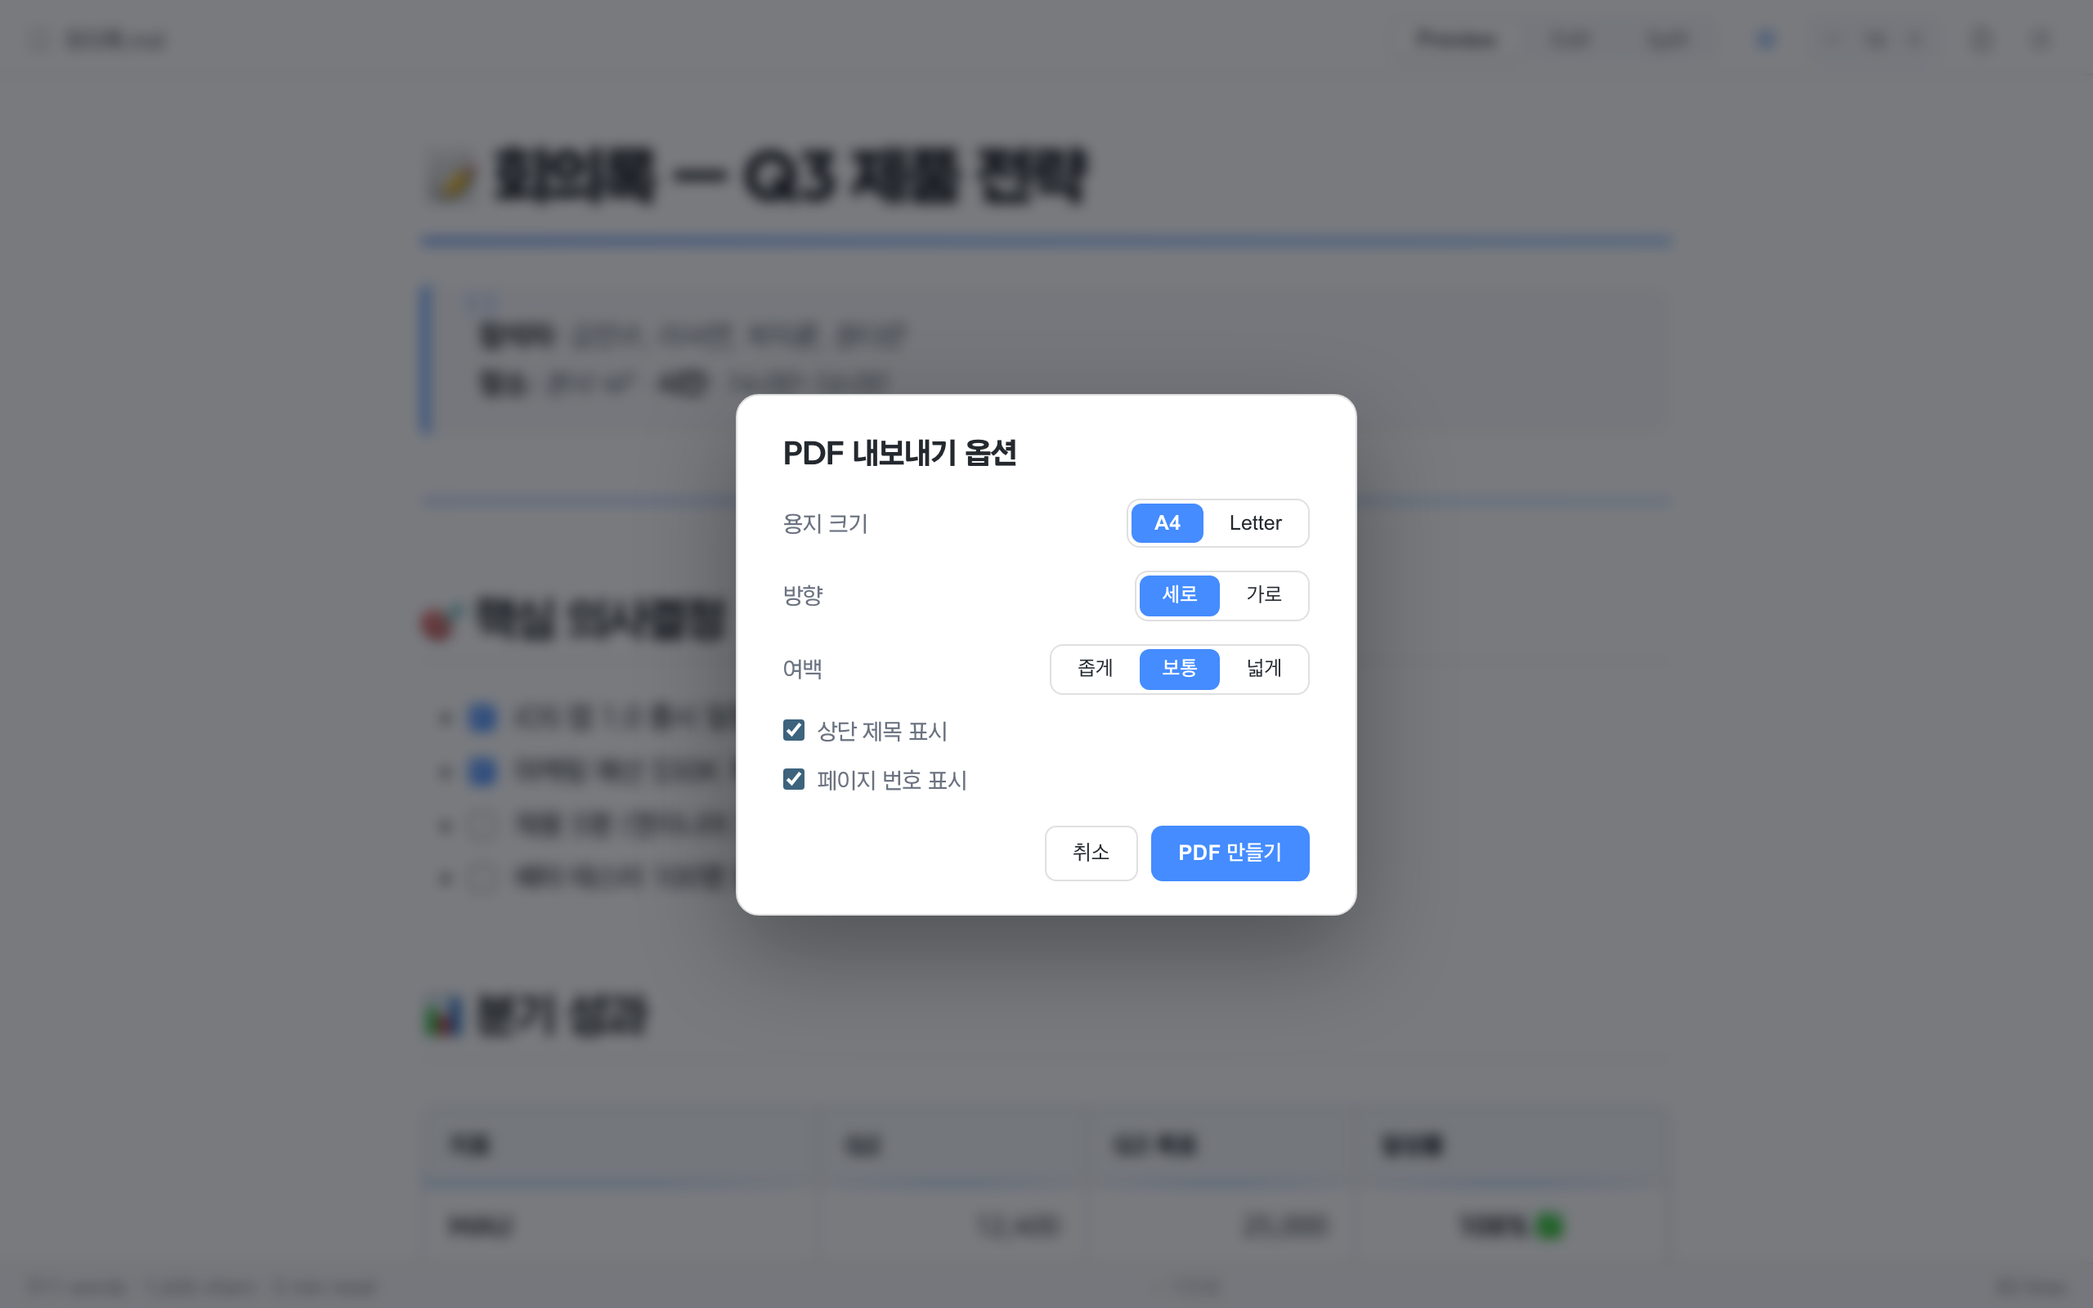
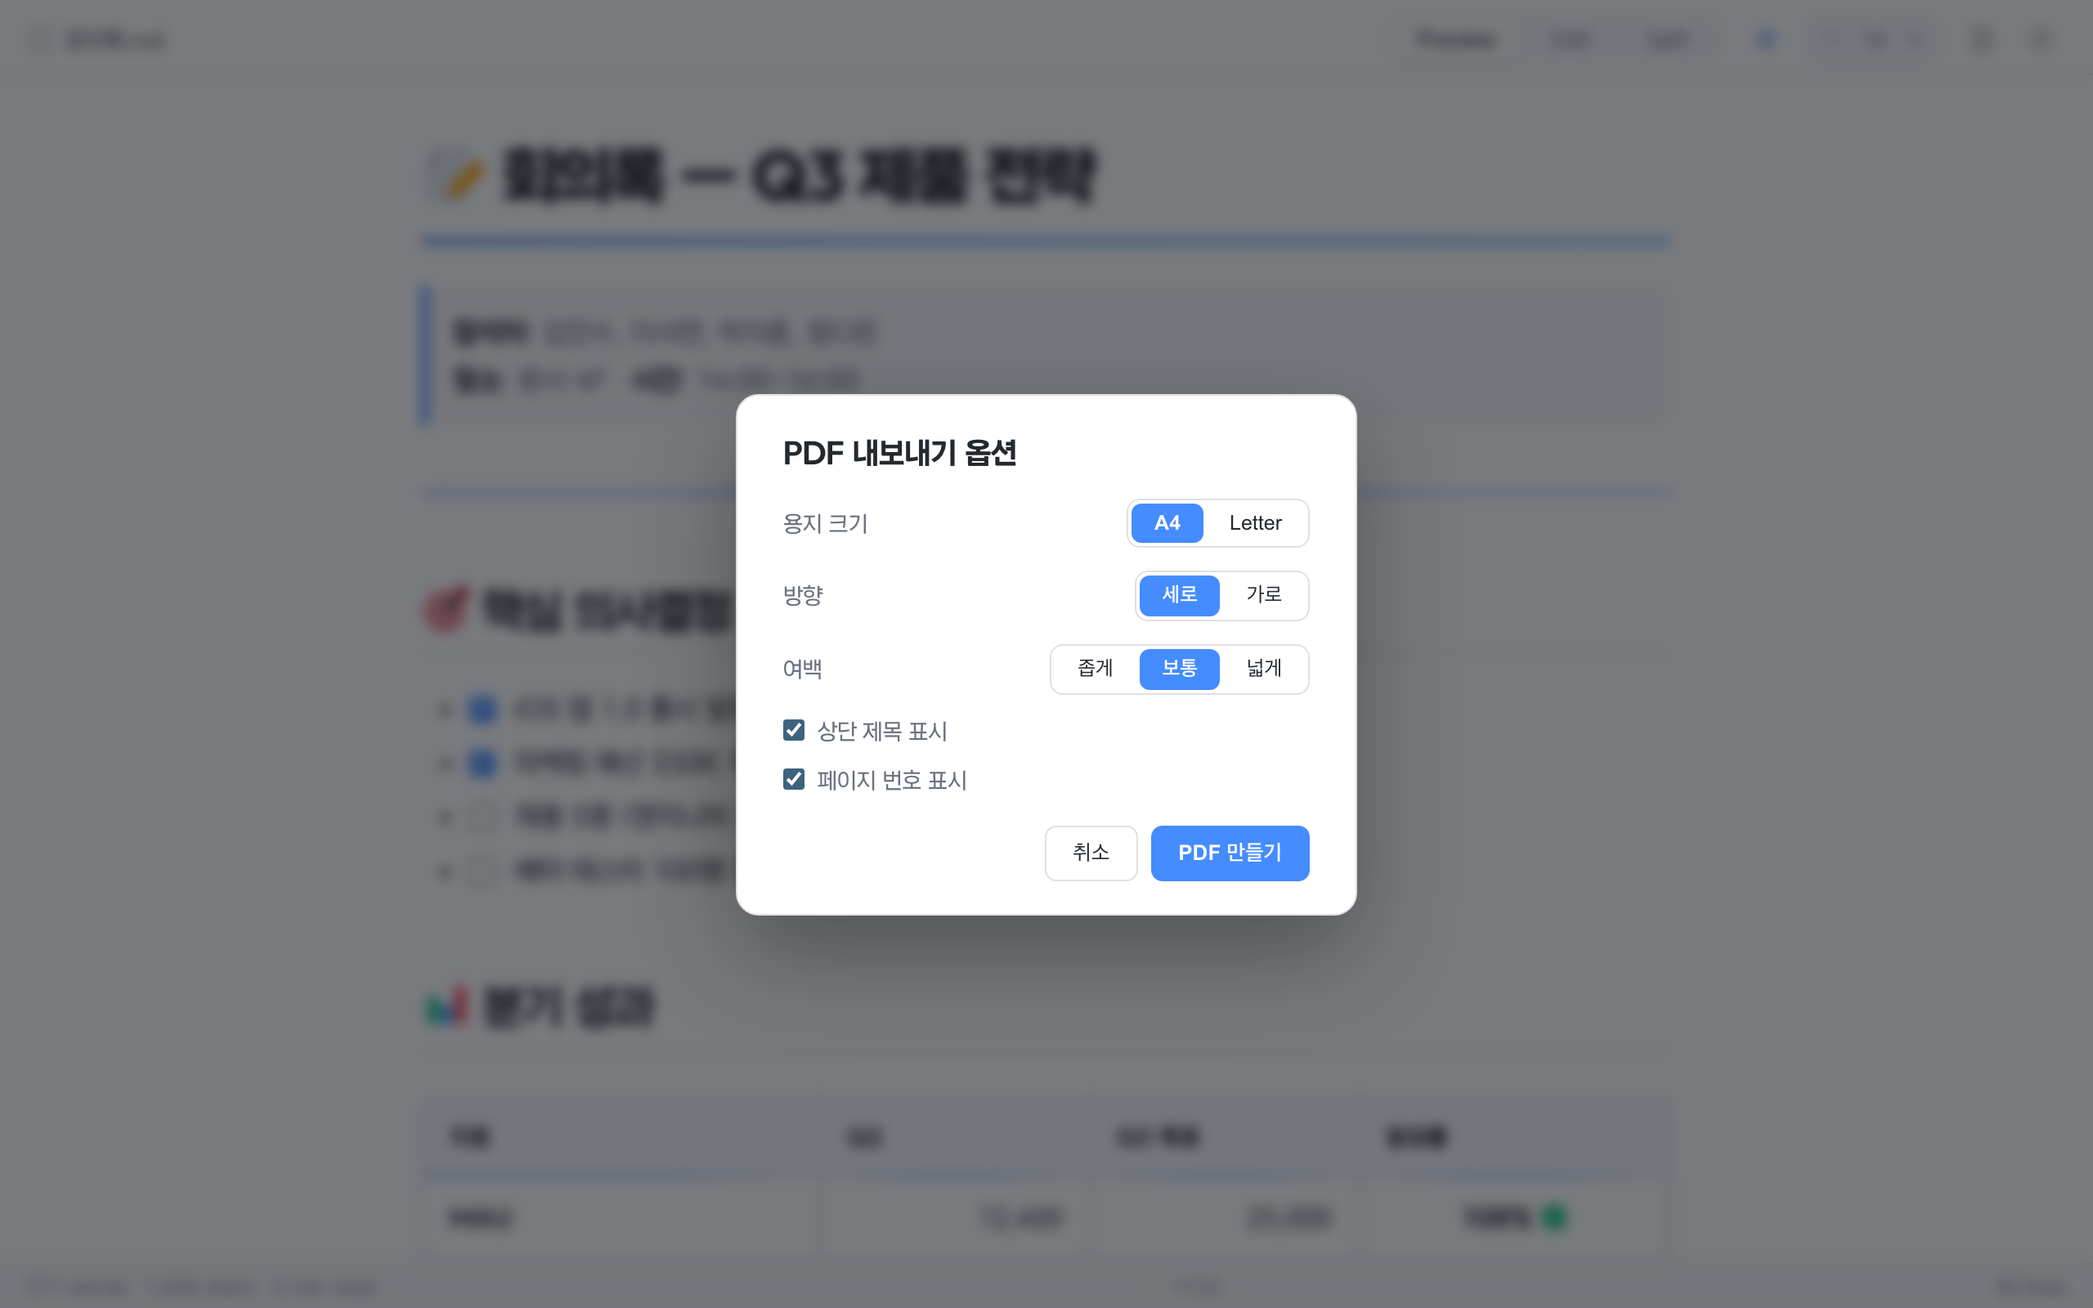
v1.0.6 — In-place block editing in Preview + Marketplace v1.0.5 distribution
Preview mode now lets you double-click any rendered block (heading, paragraph,
list, blockquote, code, table) to edit its raw markdown in place. Cmd/Ctrl+
Enter commits, ESC discards, blur commits. Hover hint "✏ dblclick" appears
top-right of each block in Preview mode so the affordance is discoverable
without cluttering Edit/Split.

Implementation switches the render pipeline from marked.parse() to
marked.lexer() + per-token marked.parser(), wrapping each top-level token in
<div class="md-block" data-block-idx="N">. Editing pulls token.raw, swaps the
block for a <textarea>, and on commit splices the new text back into
currentContent by joining all tokens.raw with the changed one substituted.
Trailing blank lines are preserved separately so block separation stays
intact even after edits that change line count.

Sanitizer now allows data-* attributes — they're scriptless by spec and we
need data-block-idx as the edit anchor. No other behavior change.

Scroll-sync regression fix: .md-block is position:relative so headings'
offsetTop now reads relative to the block, not the preview pane. Added
topWithin(el, root) that sums offsetTop up the offsetParent chain. Restored
to 31/31 green.

.vscodeignore tightened: tests/, SECURITY.md, test-click.md excluded from
the published vsix. Bundle dropped from 15.98 MB to 15.53 MB.

Marketing screenshots regenerated with Tossface emojis so docs/marketing/
and the hero docs/screenshot.png match what users actually see now (the
[…]

diff --git a/media/editor.js b/media/editor.js
@@ -149,6 +149,9 @@ function isAllowedAttribute(tag, name, value) {
     var attr = name.toLowerCase();
     if (attr.indexOf('on') === 0 || attr === 'style' || attr === 'srcdoc') return false;
     if (attr.indexOf('aria-') === 0) return true;
+    // data-* are safe by spec (no script execution surface); needed for our
+    // own block-edit metadata (data-block-idx).
+    if (attr.indexOf('data-') === 0) return true;
     if (attr === 'class' || attr === 'id' || attr === 'title' || attr === 'role') return true;
     if (attr === 'align') return /^(p|div|h[1-6]|td|th)$/.test(tag);
     if ((attr === 'colspan' || attr === 'rowspan') && (tag === 'td' || tag === 'th')) return /^\d+$/.test(value);
@@ -185,9 +188,35 @@ function resolveUri(href) {
     return docBaseUri.replace(/\/+$/, '') + '/' + cleanPath;
 }
 
+/* Token-aware rendering (v1.0.6) — keeps top-level token list around so
+   inline block-edit can find the raw markdown for any rendered block. */
+var _currentTokens = null;
 function renderMarkdown(text) {
-    var html = marked.parse(text);
-    return sanitizeHtml(html);
+    var tokens = marked.lexer(text);
+    _currentTokens = tokens;
+    // Render each top-level token individually and wrap with a div carrying
+    // its index in the token array. Editable blocks: heading/paragraph/
+    // blockquote/list/code/hr/table. Other tokens render as-is without a
+    // wrapper so structural elements (space) don't pollute the DOM.
+    var EDITABLE_TYPES = {
+        heading: 1, paragraph: 1, blockquote: 1, list: 1, code: 1, hr: 1, table: 1, html: 1
+    };
+    var parts = [];
+    for (var i = 0; i < tokens.length; i++) {
+        var token = tokens[i];
+        var blockHtml;
+        try {
+            blockHtml = marked.parser([token]);
+        } catch (_) {
+            blockHtml = '';
+        }
+        if (EDITABLE_TYPES[token.type]) {
+            parts.push('<div class="md-block" data-block-idx="' + i + '" title="Double-click to edit">' + blockHtml + '</div>');
+        } else {
+            parts.push(blockHtml);
+        }
+    }
+    return sanitizeHtml(parts.join(''));
 }
 
 function highlightCodeBlocks(container) {
@@ -310,6 +339,113 @@ function bindImageLightbox(container) {
             openLightbox(img.src, img.alt || '');
         });
     });
+}
+
+/* In-place block editing (v1.0.6) — double-click any rendered block in
+   Preview to edit its raw markdown without leaving the mode. */
+var _activeBlockEdit = null;  // { blockEl, textarea, blockIdx, originalRaw }
+
+function bindBlockEditing(container) {
+    if (!container) return;
+    container.querySelectorAll('.md-block').forEach(function (blockEl) {
+        if (blockEl.dataset.editBound === '1') return;
+        blockEl.dataset.editBound = '1';
+        blockEl.addEventListener('dblclick', function (e) {
+            // Skip when target is a link, image, or interactive child — those
+            // have their own gestures (image lightbox, link navigation).
+            var t = e.target;
+            if (t.tagName === 'A' || t.tagName === 'IMG' || t.tagName === 'INPUT') return;
+            // Skip nested .md-block (rare, but list items can contain blocks)
+            if (t.closest('.md-block') !== blockEl) return;
+            e.preventDefault();
+            e.stopPropagation();
+            openBlockEditor(blockEl);
+        });
+    });
+}
+
+function openBlockEditor(blockEl) {
+    if (_activeBlockEdit) closeBlockEditor(true);  // commit any in-flight edit
+    if (!_currentTokens) return;
+    var blockIdx = parseInt(blockEl.dataset.blockIdx, 10);
+    if (isNaN(blockIdx) || !_currentTokens[blockIdx]) return;
+    var token = _currentTokens[blockIdx];
+    var raw = (token.raw || '').replace(/\n+$/, '');  // trim trailing blank lines for editing
+    var trailingBlanks = (token.raw || '').match(/\n*$/)[0];
+
+    var textarea = document.createElement('textarea');
+    textarea.className = 'md-block-editor';
+    textarea.value = raw;
+    textarea.spellcheck = false;
+    // Match rendered block width
+    var rect = blockEl.getBoundingClientRect();
+    textarea.style.minHeight = Math.max(40, rect.height) + 'px';
+
+    blockEl.classList.add('md-block-editing');
+    blockEl.innerHTML = '';
+    blockEl.appendChild(textarea);
+    autoResizeTextarea(textarea);
+    textarea.focus();
+    // Place cursor at end
+    textarea.selectionStart = textarea.selectionEnd = textarea.value.length;
+
+    _activeBlockEdit = { blockEl: blockEl, textarea: textarea, blockIdx: blockIdx, originalRaw: token.raw, trailingBlanks: trailingBlanks };
+
+    textarea.addEventListener('input', function () { autoResizeTextarea(textarea); });
+    textarea.addEventListener('keydown', function (ev) {
+        if (ev.key === 'Escape') {
+            ev.preventDefault();
+            closeBlockEditor(false);  // discard
+        } else if ((ev.key === 'Enter' && (ev.metaKey || ev.ctrlKey))) {
+            ev.preventDefault();
+            closeBlockEditor(true);   // commit
+        }
+    });
+    textarea.addEventListener('blur', function () {
+        // Slight delay so click on adjacent block doesn't double-trigger
+        setTimeout(function () { if (_activeBlockEdit && _activeBlockEdit.textarea === textarea) closeBlockEditor(true); }, 0);
+    });
+}
+
+function autoResizeTextarea(ta) {
+    ta.style.height = 'auto';
+    ta.style.height = Math.max(40, ta.scrollHeight + 2) + 'px';
+}
+
+function closeBlockEditor(commit) {
+    if (!_activeBlockEdit) return;
+    var ed = _activeBlockEdit;
+    _activeBlockEdit = null;
+    if (!commit) {
+        // Discard: re-render whole preview, which restores the original block
+        renderPreview();
+        return;
+    }
+    var newRaw = ed.textarea.value;
+    var oldRaw = ed.originalRaw || '';
+    if (newRaw === oldRaw.replace(/\n+$/, '')) {
+        // No change — just re-render to drop the textarea
+        renderPreview();
+        return;
+    }
+    // Splice the new raw into the source. We rebuild currentContent from the
+    // token array by joining each token's raw, swapping our block out.
+    if (!_currentTokens || !_currentTokens[ed.blockIdx]) {
+        renderPreview();
+        return;
+    }
+    // Preserve the original trailing whitespace so block separation stays intact
+    var newRawWithTrailing = newRaw + (ed.trailingBlanks || '\n\n');
+    var parts = [];
+    for (var i = 0; i < _currentTokens.length; i++) {
+        parts.push(i === ed.blockIdx ? newRawWithTrailing : (_currentTokens[i].raw || ''));
+    }
+    var updated = parts.join('');
+    currentContent = updated;
+    if (editorEl) editorEl.value = updated;
+    saveToDocument(updated);
+    updateStats();
+    renderPreview();
 }
 
 /* Wrap wide tables in horizontal scroll container (v1.0.2) */
@@ -489,7 +625,7 @@ function setupOutlineScrollSpy() {
             // Find last heading whose top is above current scroll position
             var scrollTop = previewEl.parentElement ? previewEl.parentElement.scrollTop : window.scrollY;
             for (var i = pairs.length - 1; i >= 0; i--) {
-                if (pairs[i].heading.offsetTop <= scrollTop + 20) { topMost = pairs[i].heading; break; }
+                if (topWithin(pairs[i].heading, previewEl) <= scrollTop + 20) { topMost = pairs[i].heading; break; }
             }
         }
         if (!topMost) return;
@@ -546,6 +682,7 @@ function renderPreview() {
         makeCheckboxesClickable();
         wrapTablesScrollable(previewEl);
         bindImageLightbox(previewEl);
+        bindBlockEditing(previewEl);
         renderMath(previewEl);
         renderMermaid(previewEl);
         // Rebuild scroll-sync anchors after each render so heading offsets stay accurate
@@ -1320,6 +1457,19 @@ function saveToDocument(content) {
 /* ───────────────────────────────────────────
    Scroll synchronization (Split mode)
    ─────────────────────────────────────────── */
+/* True top of `el` relative to `root` — sums offsetTop up the offsetParent
+ * chain. Needed when intermediate wrappers (e.g. .md-block, position:relative)
+ * reset the offsetParent so el.offsetTop alone isn't relative to previewEl. */
+function topWithin(el, root) {
+    var top = 0;
+    var cur = el;
+    while (cur && cur !== root) {
+        top += cur.offsetTop || 0;
+        cur = cur.offsetParent;
+    }
+    return top;
+}
+
 /*
  * Anchor-based scroll sync (v1.0.2)
  *
@@ -1420,18 +1570,18 @@ function syncEditorToPreview() {
     if (prev && next) {
         var srcSpan = next.sourceLine - prev.sourceLine || 1;
         var ratio = (line - prev.sourceLine) / srcSpan;
-        var prevTop = prev.headingEl.offsetTop;
-        var nextTop = next.headingEl.offsetTop;
+        var prevTop = topWithin(prev.headingEl, previewEl);
+        var nextTop = topWithin(next.headingEl, previewEl);
         targetTop = prevTop + (nextTop - prevTop) * ratio;
     } else if (prev) {
         // Past last heading — interpolate using remaining source lines vs preview height
         var remainSrc = Math.max(1, _scrollAnchors.lineCount - prev.sourceLine);
         var ratio2 = (line - prev.sourceLine) / remainSrc;
-        var remainPv = previewEl.scrollHeight - prev.headingEl.offsetTop;
-        targetTop = prev.headingEl.offsetTop + remainPv * ratio2;
+        var remainPv = previewEl.scrollHeight - topWithin(prev.headingEl, previewEl);
+        targetTop = topWithin(prev.headingEl, previewEl) + remainPv * ratio2;
     } else if (next) {
         var ratio3 = line / Math.max(1, next.sourceLine);
-        targetTop = next.headingEl.offsetTop * ratio3;
+        targetTop = topWithin(next.headingEl, previewEl) * ratio3;
     } else {
         return false;
     }
@@ -1449,22 +1599,22 @@ function syncPreviewToEditor() {
     var scrollTop = container.scrollTop + container.clientHeight * 0.15;
     var prev = null, next = null;
     for (var i = 0; i < anchors.length; i++) {
-        if (anchors[i].headingEl.offsetTop <= scrollTop) prev = anchors[i];
+        if (topWithin(anchors[i].headingEl, previewEl) <= scrollTop) prev = anchors[i];
         else { next = anchors[i]; break; }
     }
     var lh = parseFloat(getComputedStyle(editorEl).lineHeight) || 22;
     var targetLine;
     if (prev && next) {
-        var pvSpan = next.headingEl.offsetTop - prev.headingEl.offsetTop || 1;
-        var ratio = (scrollTop - prev.headingEl.offsetTop) / pvSpan;
+        var pvSpan = topWithin(next.headingEl, previewEl) - topWithin(prev.headingEl, previewEl) || 1;
+        var ratio = (scrollTop - topWithin(prev.headingEl, previewEl)) / pvSpan;
         targetLine = prev.sourceLine + (next.sourceLine - prev.sourceLine) * ratio;
     } else if (prev) {
-        var remainPv = Math.max(1, previewEl.scrollHeight - prev.headingEl.offsetTop);
-        var ratio2 = (scrollTop - prev.headingEl.offsetTop) / remainPv;
+        var remainPv = Math.max(1, previewEl.scrollHeight - topWithin(prev.headingEl, previewEl));
+        var ratio2 = (scrollTop - topWithin(prev.headingEl, previewEl)) / remainPv;
         var remainSrc = _scrollAnchors.lineCount - prev.sourceLine;
         targetLine = prev.sourceLine + remainSrc * ratio2;
     } else if (next) {
-        targetLine = next.sourceLine * (scrollTop / Math.max(1, next.headingEl.offsetTop));
+        targetLine = next.sourceLine * (scrollTop / Math.max(1, topWithin(next.headingEl, previewEl)));
     } else {
         return false;
     }

diff --git a/media/editor.css b/media/editor.css
@@ -2805,3 +2805,71 @@ body.vscode-dark .pdf-options-dialog .pdf-segmented {
    @import + font-family chain on body). Browser auto-selects Tossface for
    emoji codepoints via its unicode-range and falls through for everything
    else. No JS parsing or SVG replacement needed. */
+
+/* ══════════════════════════════════════════════════════════════
+   IN-PLACE BLOCK EDITING (v1.0.6)
+   ══════════════════════════════════════════════════════════════ */
+.markdown-body .md-block {
+    position: relative;
+    transition: background 0.12s ease;
+    border-radius: 4px;
+    margin: 0;
+    padding: 0;
+}
+/* Subtle hover hint that double-click opens editor */
+body.mode-preview .markdown-body .md-block:hover {
+    background: color-mix(in srgb, var(--md-accent) 4%, transparent);
+    cursor: text;
+}
+body.mode-preview .markdown-body .md-block:hover::after {
+    content: '✏ dblclick';
+    position: absolute;
+    top: 6px;
+    right: 8px;
+    font-size: 10.5px;
+    color: var(--md-text-muted, #8b8b9a);
+    opacity: 0.55;
+    pointer-events: none;
+    font-family: 'AtoZ', 'Pretendard', sans-serif;
+    background: var(--md-bg);
+    padding: 1px 6px;
+    border-radius: 4px;
+    line-height: 1.4;
+    border: 1px solid var(--md-border, #e5e7eb);
+}
+
+/* Active editor — textarea swapped in place of rendered HTML */
+.markdown-body .md-block-editing {
+    background: color-mix(in srgb, var(--md-accent) 7%, transparent);
+    box-shadow: 0 0 0 1px var(--md-accent), inset 0 0 0 1px var(--md-bg);
+    padding: 4px 6px;
+    cursor: text;
+}
+.markdown-body .md-block-editing::after { display: none; }
+.markdown-body .md-block-editor {
+    width: 100%;
+    background: transparent;
+    border: none;
+    outline: none;
+    resize: none;
+    font-family: 'JetBrains Mono', 'Fira Code', 'Cascadia Code', 'SF Mono', Consolas, monospace;
+    font-size: 0.92em;
+    line-height: 1.55;
+    color: var(--md-text);
+    padding: 4px 2px;
+    overflow: hidden;
+    tab-size: 4;
+    -moz-tab-size: 4;
+    caret-color: var(--md-accent);
+}
+
+/* Edit/Split mode: no editing hints in preview side (only Preview-only mode) */
+body.mode-edit .markdown-body .md-block:hover::after,
+body.mode-split .markdown-body .md-block:hover::after { display: none; }
+body.mode-edit .markdown-body .md-block:hover,
+body.mode-split .markdown-body .md-block:hover { background: transparent; cursor: default; }
+
+/* PDF export: strip all editing affordances */
+body.exporting-pdf .markdown-body .md-block { background: transparent !important; padding: 0 !important; }
+body.exporting-pdf .markdown-body .md-block::after,
+body.exporting-pdf .markdown-body .md-block:hover::after { display: none !important; }

diff --git a/CHANGELOG.md b/CHANGELOG.md
@@ -5,6 +5,22 @@
 이 프로젝트는 [Semantic Versioning](https://semver.org/lang/ko/)을 따르며,
 [Keep a Changelog](https://keepachangelog.com/ko/1.1.0/) 형식을 따릅니다.
 
+## [1.0.6] - 2026-06-30
+
+### Added
+
+- **✏ Preview에서 인-라인 블록 편집** — Preview 모드에서 임의의 블록(제목·문단·리스트·인용·코드)을 **더블클릭**하면 그 자리에서 raw markdown으로 바뀝니다. `Cmd/Ctrl+Enter`로 저장, `ESC`로 취소. 모드 전환 없이 빠르게 수정 가능. 호버 시 우측 상단에 `✏ dblclick` 힌트.
+
+### Changed
+
+- **렌더 파이프라인이 토큰 단위** — `marked.parse(text)` → `marked.lexer(text)` + 토큰별 `marked.parser([token])`로 변경. 각 블록이 `<div class="md-block" data-block-idx>`로 감싸져 인-라인 편집의 앵커가 됨. 출력 HTML은 동일.
+- **Sanitizer가 `data-*` 속성 허용** — 우리 자체 메타데이터(`data-block-idx`)에 필요. data-* 속성은 스펙상 스크립트 실행 표면이 없어 안전.
+- **`.vscodeignore` 확장** — `tests/`, `SECURITY.md`, `test-click.md` 추가 제외. 배포 vsix에서 개발용 아티팩트 제거.
+
+### Fixed
+
+- **스크롤 sync 정확도** — `.md-block` 래퍼가 `position:relative`라 그 안의 헤딩 `offsetTop`이 블록 기준으로 측정되던 회귀. `topWithin(el, root)` 헬퍼로 offsetParent 체인 합산해서 previewEl 기준 좌표로 보정. 31/31 통과.
+
 ## [1.0.5] - 2026-06-30
 
 ### Changed
